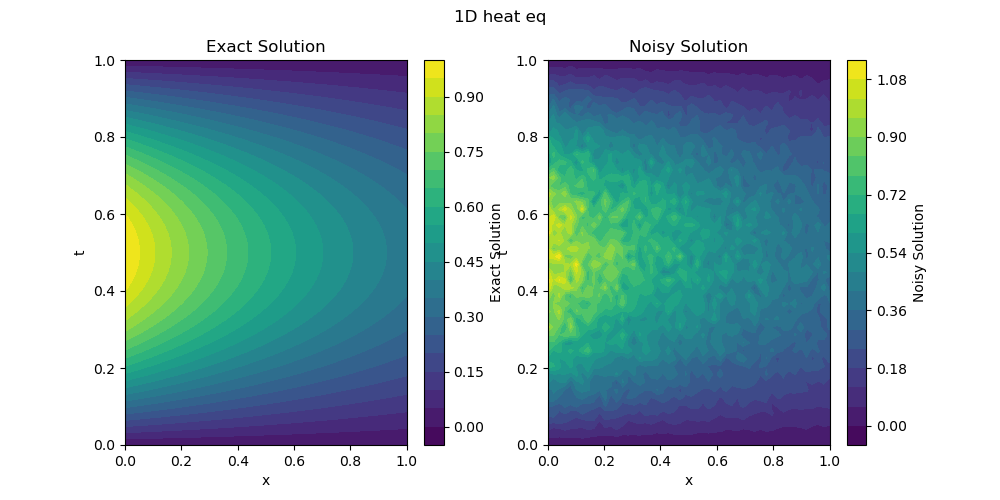
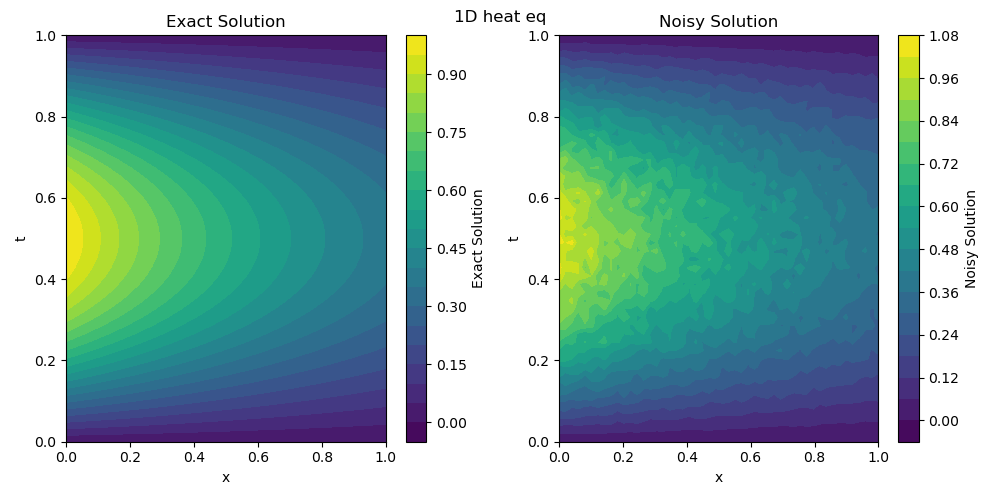
added head source to loss func

diff --git a/training.py b/training.py
@@ -4,11 +4,6 @@ import matplotlib.pyplot as plt
 from noise_generator import generate_noisy_data
 
 
-def source_term(X, alpha):
-    x = X[:, 0:1]
-    t = X[:, 1:2]
-    return torch.sin(np.pi * x) * torch.exp(-(alpha * np.pi**2 + 1) * t)
-
 def train_pinn(pinn, params, exact_solution, inversion=False, with_source=False):
     """
     Trains the PINN model
@@ -38,6 +33,7 @@ def train_pinn(pinn, params, exact_solution, inversion=False, with_source=False)
         plt.title('Noisy Solution')
         plt.xlabel('x')
         plt.ylabel('t')
+        plt.tight_layout()
 
         if with_source:
             plt.suptitle("1D heat eq + source")
@@ -46,7 +42,6 @@ def train_pinn(pinn, params, exact_solution, inversion=False, with_source=False)
             plt.suptitle("1D heat eq")
             plt.savefig("plots/nosource/noisydata.png")
 
-        plt.tight_layout()
         plt.close()
 
         # Training variables
@@ -101,10 +96,8 @@ def train_pinn(pinn, params, exact_solution, inversion=False, with_source=False)
         # Apply source term if the equation has a source term
         if inversion:
             loss_data = torch.mean((u - U_noisy_torch)**2)
-
             if with_source:
-                f_source = source_term(X_physics, pinn.alpha)  # Use the estimated alpha
-                loss_pde = torch.mean((u_t - pinn.alpha * u_xx - f_source)**2)
+                loss_pde = torch.mean((u_t - pinn.alpha * u_xx - 1)**2) # source term -1
             else:   # Data loss comparing with noisy data
                 
                 loss_pde = torch.mean((u_t - pinn.alpha * u_xx)**2)
@@ -144,6 +137,7 @@ def train_pinn(pinn, params, exact_solution, inversion=False, with_source=False)
                 plt.plot(x_test, u_pred, label="PINN Solution", color="blue")
                 plt.grid()
                 plt.legend()
+                plt.tight_layout()
 
                 if with_source:
                     if inversion:
@@ -160,7 +154,6 @@ def train_pinn(pinn, params, exact_solution, inversion=False, with_source=False)
                         plt.title(f"Epoch {epoch}, training: 1D heat eq")
                         plt.savefig(f"plots/nosource/training/heat_eq_train_epoch{epoch}.png")
 
-                plt.tight_layout()
                 plt.close()
 
     if inversion:
@@ -172,6 +165,7 @@ def train_pinn(pinn, params, exact_solution, inversion=False, with_source=False)
         plt.ylabel('Alpha')
         plt.grid()
         plt.legend()
+        plt.tight_layout()
 
         if with_source:
             plt.title('α estimation: 1D heat eq + source')
@@ -180,5 +174,4 @@ def train_pinn(pinn, params, exact_solution, inversion=False, with_source=False)
             plt.title('α Estimation: 1D heat eq')
             plt.savefig("plots/nosource/alpha_estimate.png")
             
-        plt.tight_layout()
         plt.close()

diff --git a/main.py b/main.py
@@ -34,13 +34,13 @@ def main():
     torch.manual_seed(seeds)
     np.random.seed(seeds)
 
-# Initialize PINN model
+    # Initialize PINN model
     pinn = FCN(**params['model_params'], inversion=False)
     
     # Train PINN with the selected exact solution
-    print("=============")
-    print("Training PINN")
-    print("=============")
+    print("==============================")
+    print("\tTraining PINN")
+    print("==============================")
     train_pinn(pinn, params,
                exact_solution=exact_solution_func,
                inversion=False,
@@ -48,9 +48,9 @@ def main():
 
     # Parameter inversion
     pinn_inversion = FCN(**params['model_params'], inversion=True)
-    print("=============")
-    print("PINN inversion")
-    print("=============")
+    print("==============================")
+    print("\tPINN inversion")
+    print("==============================")
     train_pinn(pinn_inversion, params,
                exact_solution=exact_solution_func,
                inversion=True,

diff --git a/analytical_solution.py b/analytical_solution.py
@@ -25,16 +25,17 @@ def heat_eq_1D_with_source(x, t, alpha):
     With boundary conditions:
     - u(x, 0) = sin(pi x) / (alpha * pi^2 + 1)
     - u(0, t) = u(1, t) = 0
-
+    And a source term f(x, t) = 1.
     Args:
     - t: time
     - x: position
     - alpha: thermal diffusivity
-
     Returns:
     - Solution tensor
     """
 
-    # Computed manually
-    return (torch.sin(np.pi * x) / (alpha * np.pi**2 + 1)) * \
-        (1 - torch.exp(-(alpha * np.pi**2 + 1) * t))
+    # The analytical solution with the source term included
+    term_1 = (torch.sin(np.pi * x) / (alpha * np.pi**2 + 1)) * (1 - torch.exp(-(alpha * np.pi**2 + 1) * t))
+    term_2 = 1 / (alpha * np.pi**2 + 1)
+
+    return term_1 + term_2
